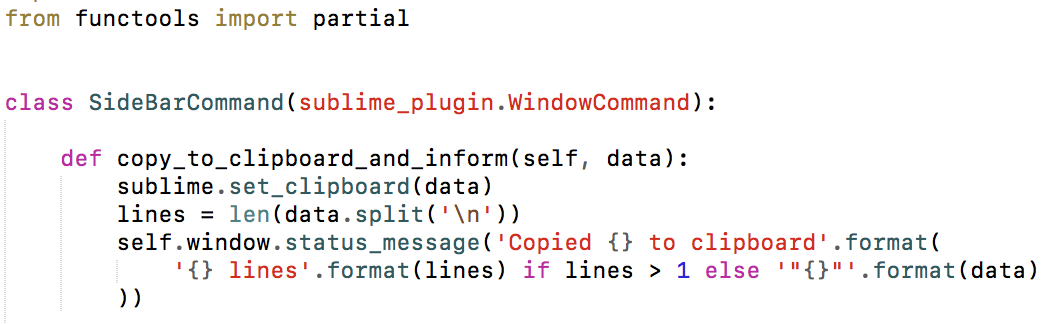
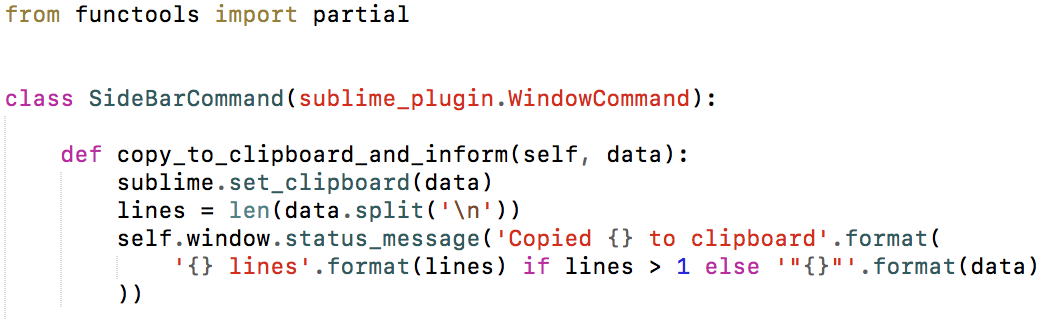
add civic image

diff --git a/README.md b/README.md
@@ -4,4 +4,7 @@ Color schemes for Sublime Text inspired by Xcode
 Xcode has some tricks that Sublime doesn't, and the other way around is true too. These color schemes try to be faithful to the Xcode color schemes, while also taking into account syntax highlighting features of Sublime Text.
 
 Default:  
-<img src="https://raw.githubusercontent.com/braver/XcodeColors/master/images/Default.png" width="530" height="162">
+<img src="https://raw.githubusercontent.com/braver/XcodeColors/master/images/Default.png" width="530" height="160">
+
+Civic:
+<img src="https://raw.githubusercontent.com/braver/XcodeColors/master/images/Civic.png" width="530" height="160">
